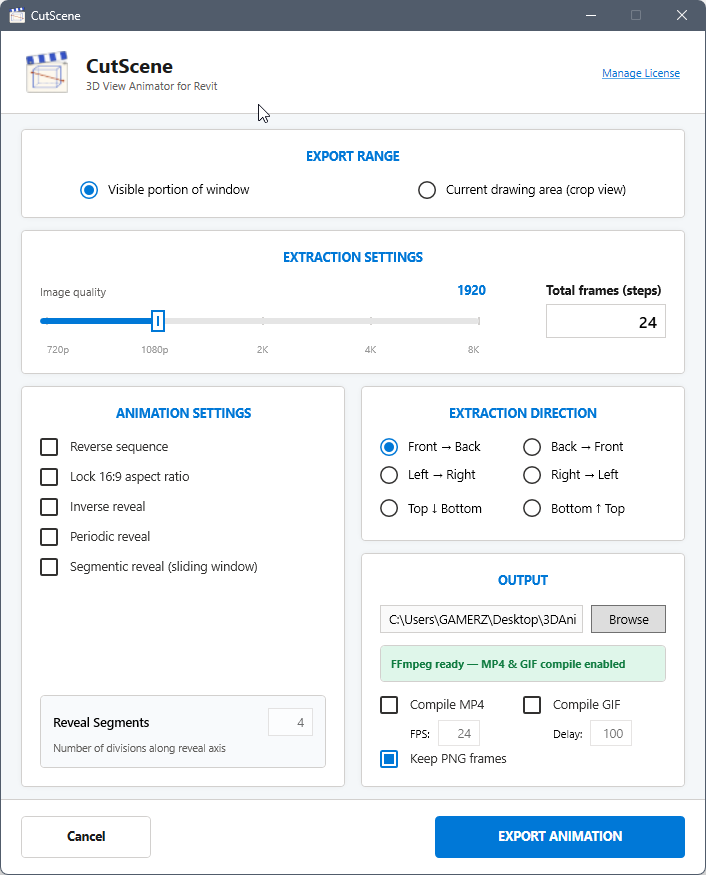
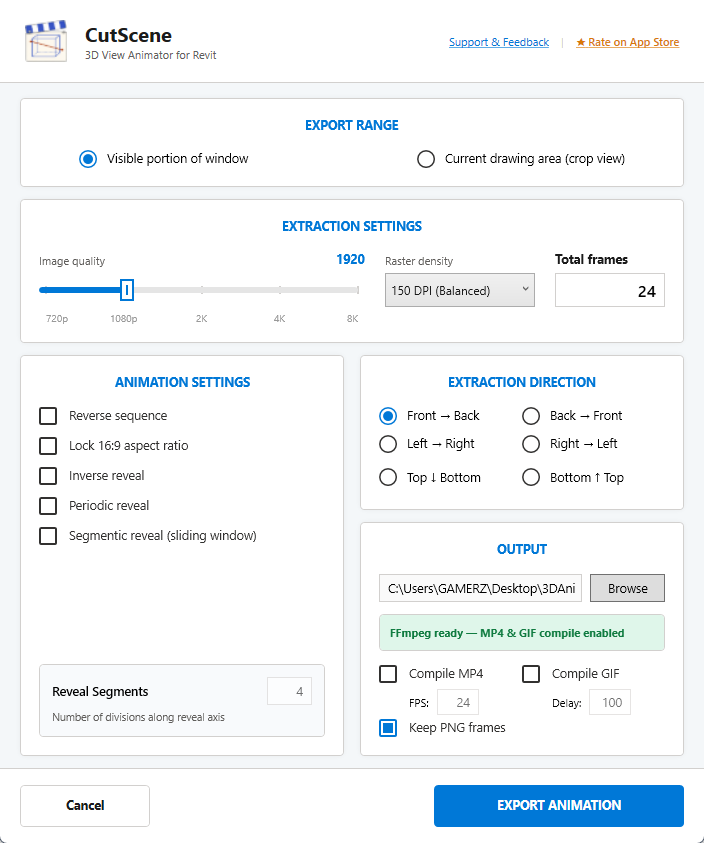
Cutscene Free.
Updated Cutscene to be completely Free.

diff --git a/index.html b/index.html
@@ -419,10 +419,10 @@
   <div class="nav-links">
     <a href="#top">Home</a>
     <a href="#tools">Tools</a>
-    <a href="#pricing">Pricing</a>
+    <a href="#features">Features</a>
     <a href="#faq">FAQ</a>
   </div>
-  <a class="nav-cta" href="#pricing">Purchase Key</a>
+  <a class="nav-cta" href="#download">Download Free</a>
 </nav>
 
 <!-- HERO PORTFOLIO SECTION -->
@@ -540,7 +540,7 @@
       <!-- ANIMATION SAMPLES GALLERY (removed — media integrated into feature cards below) -->
 
       <!-- FEATURES -->
-      <div style="margin-top: 80px;">
+      <div id="features" style="margin-top: 80px;">
         <div class="section-label">Features</div>
         <h2 class="section-title">Everything you need for professional BIM animation</h2>
         <p class="section-sub" style="margin-bottom: 48px;">Click any feature to see it in action.</p>
@@ -616,6 +616,13 @@
             <p>Export frames from HD to 8K (7680 px). Lock the 16:9 aspect ratio for broadcast-quality output, or let Revit determine the frame dimensions.</p>
           </div>
 
+          <!-- Raster Density & DPI Control — NEW FEATURE -->
+          <div class="feat-card fade-up">
+            <div class="feat-icon">&#128444;&#65039;</div>
+            <h3>Raster Density &amp; DPI Control</h3>
+            <p>Full raster density selection from 72 DPI (Draft/Fast) and 150 DPI (Balanced) to 300 DPI (High Res) and 600 DPI (Ultra Print) for razor-sharp, presentation-grade deliverables.</p>
+          </div>
+
           <!-- Non-Destructive — standard card -->
           <div class="feat-card fade-up">
             <div class="feat-icon">&#128737;&#65039;</div>
@@ -679,111 +686,38 @@
     </div>
   </section>
 
-  <!-- PRICING -->
-  <section id="pricing">
+  <!-- DOWNLOAD / ACCESS -->
+  <section id="download">
     <div class="container">
-      <div class="section-label">Pricing</div>
-      <h2 class="section-title">Simple, transparent pricing</h2>
-      <p class="section-sub">Start free, upgrade when you are ready. No subscription - pay once, use forever.</p>
-      <div class="pricing-grid">
-        
-        <!-- 1-DAY -->
-        <div class="price-card fade-up">
-          <span class="price-badge">Free Trial</span>
-          <div class="price-title">1-Day Pass</div>
-          <div class="price-amount">$0</div>
-          <div class="price-desc">Free 1-day access to CutScene. Perfect for trying out the tool before committing.</div>
-          <ul class="price-features">
-            <li><span class="check">&#10003;</span> 10 free trial exports</li>
-            <li><span class="check">&#10003;</span> Perspective &amp; Orthogonal reveal</li>
-            <li><span class="check">&#10003;</span> MP4, GIF, PNG output</li>
-            <li><span class="check">&#10003;</span> Resolutions up to 8K</li>
-            <li><span class="check">&#10003;</span> All 7 Revit versions</li>
-          </ul>
-          <a href="https://apps.autodesk.com" class="price-btn outline">Download Trial</a>
+      <div class="section-label">Download</div>
+      <h2 class="section-title">Completely free for everyone</h2>
+      <p class="section-sub">No license keys, no trial limitations, and no watermarks. Full access across all supported Revit versions.</p>
+      
+      <div style="max-width: 800px; margin: 48px auto 0; background: linear-gradient(145deg, rgba(255,255,255,0.06), rgba(0,120,215,0.06)); border: 1px solid rgba(0,120,215,0.3); border-radius: 20px; padding: 40px; text-align: center; box-shadow: 0 20px 60px rgba(0,0,0,0.35);">
+        <div style="display:inline-block; font-size:0.75rem; font-weight:700; letter-spacing:1px; text-transform:uppercase; color:var(--accent2); background:rgba(0,120,215,0.15); padding:6px 16px; border-radius:100px; margin-bottom:16px;">
+          Free Add-in
         </div>
-
-        <!-- 7-DAY -->
-        <div class="price-card fade-up">
-          <span class="price-badge">Short Pass</span>
-          <div class="price-title">7-Day Pass</div>
-          <div class="price-amount">$5</div>
-          <div class="price-desc">7 days of full access to CutScene. Great for short-term projects or quick deliverables.</div>
-          <ul class="price-features">
-            <li><span class="check">&#10003;</span> Unlimited exports for 7 days</li>
-            <li><span class="check">&#10003;</span> Perspective &amp; Orthogonal reveal</li>
-            <li><span class="check">&#10003;</span> MP4, GIF, PNG output</li>
-            <li><span class="check">&#10003;</span> Resolutions up to 8K</li>
-            <li><span class="check">&#10003;</span> 7 Revit versions supported</li>
-          </ul>
-          <a href="https://scanbim.github.io/Revit-Addin-Tools/#pricing" class="price-btn outline">Get 7-Day Key</a>
+        <h3 style="font-size: 1.8rem; font-weight: 800; margin-bottom: 12px; color: #fff;">CutScene for Autodesk Revit</h3>
+        <p style="color: var(--muted); font-size: 1rem; max-width: 580px; margin: 0 auto 30px;">
+          Enjoy unlimited MP4, GIF, and PNG exports up to 8K resolution with all reveal modes and custom DPI control unlocked right out of the box.
+        </p>
+        <div style="display: flex; gap: 16px; justify-content: center; flex-wrap: wrap; margin-bottom: 32px;">
+          <a href="https://apps.autodesk.com" class="btn-primary" style="padding: 16px 36px; font-size: 1rem;">Download on Autodesk App Store</a>
         </div>
-
-        <!-- 1-MONTH -->
-        <div class="price-card fade-up">
-          <span class="price-badge">Monthly Pass</span>
-          <div class="price-title">1-Month Pass</div>
-          <div class="price-amount">$25</div>
-          <div class="price-desc">30 days of full access. Ideal for project-based workflows where you need CutScene for a single engagement.</div>
-          <ul class="price-features">
-            <li><span class="check">&#10003;</span> Unlimited exports for 30 days</li>
-            <li><span class="check">&#10003;</span> Perspective &amp; Orthogonal reveal</li>
-            <li><span class="check">&#10003;</span> MP4, GIF, PNG output</li>
-            <li><span class="check">&#10003;</span> Resolutions up to 8K</li>
-            <li><span class="check">&#10003;</span> 7 Revit versions supported</li>
-          </ul>
-          <a href="https://scanbim.github.io/Revit-Addin-Tools/#pricing" class="price-btn outline">Get 1-Month Key</a>
+        <div style="display: grid; grid-template-columns: repeat(auto-fit, minmax(200px, 1fr)); gap: 16px; text-align: left; border-top: 1px solid var(--border); padding-top: 24px;">
+          <div style="display:flex; align-items:center; gap:10px; font-size:0.9rem; color:var(--text);">
+            <span style="color:var(--green); font-size:1.1rem;">&#10003;</span> Unlimited exports
+          </div>
+          <div style="display:flex; align-items:center; gap:10px; font-size:0.9rem; color:var(--text);">
+            <span style="color:var(--green); font-size:1.1rem;">&#10003;</span> Up to 8K &amp; 600 DPI
+          </div>
+          <div style="display:flex; align-items:center; gap:10px; font-size:0.9rem; color:var(--text);">
+            <span style="color:var(--green); font-size:1.1rem;">&#10003;</span> All 7 Revit versions
+          </div>
+          <div style="display:flex; align-items:center; gap:10px; font-size:0.9rem; color:var(--text);">
+            <span style="color:var(--green); font-size:1.1rem;">&#10003;</span> Bundled FFmpeg (ready to use)
+          </div>
         </div>
-
-        <!-- 6-MONTH -->
-        <div class="price-card fade-up">
-          <span class="price-badge">Semi-Annual Pass</span>
-          <div class="price-title">6-Month Pass</div>
-          <div class="price-amount">$50</div>
-          <div class="price-desc">6 months of full access. Best for ongoing projects or studios with regular animation needs.</div>
-          <ul class="price-features">
-            <li><span class="check">&#10003;</span> Unlimited exports for 6 months</li>
-            <li><span class="check">&#10003;</span> Perspective &amp; Orthogonal reveal</li>
-            <li><span class="check">&#10003;</span> MP4, GIF, PNG output</li>
-            <li><span class="check">&#10003;</span> Resolutions up to 8K</li>
-            <li><span class="check">&#10003;</span> 7 Revit versions supported</li>
-          </ul>
-          <a href="https://scanbim.github.io/Revit-Addin-Tools/#pricing" class="price-btn outline">Get 6-Month Key</a>
-        </div>
-
-        <!-- 1-YEAR -->
-        <div class="price-card featured fade-up">
-          <span class="price-badge">Annual Pass</span>
-          <div class="price-title">1-Year Pass</div>
-          <div class="price-amount">$75</div>
-          <div class="price-desc">12 months of full access. Our most popular tier for professionals who animate regularly in Revit.</div>
-          <ul class="price-features">
-            <li><span class="check">&#10003;</span> Unlimited exports for 12 months</li>
-            <li><span class="check">&#10003;</span> Perspective &amp; Orthogonal reveal</li>
-            <li><span class="check">&#10003;</span> MP4, GIF, PNG output</li>
-            <li><span class="check">&#10003;</span> Resolutions up to 8K</li>
-            <li><span class="check">&#10003;</span> 7 Revit versions supported</li>
-          </ul>
-          <a href="https://scanbim.github.io/Revit-Addin-Tools/#pricing" class="price-btn filled">Get 1-Year Key</a>
-        </div>
-
-        <!-- PERPETUAL -->
-        <div class="price-card featured fade-up">
-          <span class="price-badge">Perpetual</span>
-          <div class="price-title">Perpetual License</div>
-          <div class="price-amount">$100</div>
-          <div class="price-desc">Lifetime access to CutScene. Pay once, use forever. Best value for power users and studios.</div>
-          <ul class="price-features">
-            <li><span class="check">&#10003;</span> Lifetime unlimited exports</li>
-            <li><span class="check">&#10003;</span> Perspective &amp; Orthogonal reveal</li>
-            <li><span class="check">&#10003;</span> MP4, GIF, PNG output</li>
-            <li><span class="check">&#10003;</span> Resolutions up to 8K</li>
-            <li><span class="check">&#10003;</span> 7 Revit versions supported</li>
-            <li><span class="check">&#10003;</span> Machine transfer supported</li>
-          </ul>
-          <a href="https://scanbim.github.io/Revit-Addin-Tools/#pricing" class="price-btn filled">Get Perpetual Key</a>
-        </div>
-
       </div>
     </div>
   </section>
@@ -803,16 +737,16 @@
           <div class="faq-a">Never. CutScene is 100% non-destructive. After every export it fully restores your 3D view - the Section Box position, Crop Box state, and all visibility settings - to exactly how you left it. Your model file is never modified.</div>
         </div>
         <div class="faq-item">
-          <button class="faq-q" onclick="toggleFaq(this)">Can I transfer my license to a new computer? <span class="arrow">&#9660;</span></button>
-          <div class="faq-a">Yes. The License Activation window includes a Deactivate button that unbinds your license from your current machine, freeing it to be activated on a new one. You can move your license as many times as you need.</div>
+          <button class="faq-q" onclick="toggleFaq(this)">Is CutScene completely free to use? <span class="arrow">&#9660;</span></button>
+          <div class="faq-a">Yes. CutScene is 100% free with unlimited exports, no license keys required, and no hidden subscriptions.</div>
         </div>
         <div class="faq-item">
           <button class="faq-q" onclick="toggleFaq(this)">Which Revit versions are supported? <span class="arrow">&#9660;</span></button>
-          <div class="faq-a">CutScene supports Revit 2021, 2022, 2023, 2024, 2025, 2026, and 2027 - all included in a single bundle installer. A single license key works across all versions.</div>
+          <div class="faq-a">CutScene supports Revit 2021, 2022, 2023, 2024, 2025, 2026, and 2027 - all included in a single unified installer.</div>
         </div>
         <div class="faq-item">
           <button class="faq-q" onclick="toggleFaq(this)">How long does an export take? <span class="arrow">&#9660;</span></button>
-          <div class="faq-a">It depends on frame count and resolution. A typical 30-frame export at Full HD (1920px) completes in 1-3 minutes. The FFmpeg MP4/GIF compilation runs in the background so Revit stays responsive during the wait.</div>
+          <div class="faq-a">It depends on frame count and resolution. A typical 30-frame export at Full HD (1920px) completes in 1-3 minutes. The FFmpeg MP4/GIF compilation runs asynchronously in the background so Revit stays responsive.</div>
         </div>
         <div class="faq-item">
           <button class="faq-q" onclick="toggleFaq(this)">Does it work with perspective (camera) 3D views? <span class="arrow">&#9660;</span></button>
@@ -826,9 +760,8 @@
   <section id="cta">
     <div class="cta-box fade-up">
       <h2>Ready to create your first<br/>cinematic animation?</h2>
-      <p>Download from the Autodesk App Store and get 10 free exports instantly - no credit card required.</p>
-      <a href="https://apps.autodesk.com" class="btn-primary">Download Free from Autodesk</a>
-      <p class="cta-note">Need a license key? <a href="https://scanbim.github.io/Revit-Addin-Tools/#pricing" style="color:var(--accent2);text-decoration:none">Purchase one here</a></p>
+      <p>Download CutScene from the Autodesk App Store and start exporting cinematic section box animations today.</p>
+      <a href="https://apps.autodesk.com" class="btn-primary">Download Free on Autodesk App Store</a>
     </div>
   </section>
 </main>
@@ -840,11 +773,11 @@
     <span class="footer-logo-text" style="font-size:1rem">Scan<span>BIM</span></span>
   </div>
   <div class="footer-links">
-    <a href="#product">Home</a>
+    <a href="#top">Home</a>
     <a href="#tools">CutScene</a>
-    <a href="#pricing">Pricing</a>
+    <a href="#features">Features</a>
     <a href="#faq">FAQ</a>
-    <a href="https://scanbim.github.io/Revit-Addin-Tools/#pricing">Support</a>
+    <a href="#download">Download</a>
     <a href="#privacy">Privacy Policy</a>
   </div>
   <span class="footer-copy">&copy; 2025 ScanBIM. All rights reserved.</span>
@@ -853,15 +786,11 @@
 <!-- PRIVACY POLICY SECTION -->
 <div id="privacy">
   <strong style="color:var(--text)">Privacy Policy</strong><br/><br/>
-  CutScene by ScanBIM stores an anonymous, hardware-derived Device ID and export count in a secure Firebase database solely to manage your trial usage and license activation. No personally identifiable information (name, email, or IP address) is collected, stored, or sold to any third party. The Device ID is a non-reversible hash and cannot be used to identify you as an individual.
+  CutScene by ScanBIM is committed to respecting your privacy. The tool operates locally on your machine within Autodesk Revit and does not collect, transmit, store, or sell any personal data, project files, or telemetry to external servers.
   <br/><br/>
-  <strong style="color:var(--text)">Third-Party Data Handling:</strong> Your Device ID and export count are stored using Google Firebase. Firebase provides the same level of data protection and confidentiality described in this policy, and does not use this data for its own purposes.
+  <strong style="color:var(--text)">Local Processing:</strong> All image rendering, frame extraction, and video/GIF compilations (via FFmpeg) are executed strictly on your local computer. No models or rendered frames are ever uploaded or sent over the internet.
   <br/><br/>
-  <strong style="color:var(--text)">Data Retention:</strong> Your Device ID and export count are retained only for as long as necessary to manage trial usage and license activation. Data associated with expired trials or inactive licenses may be periodically removed from our systems.
-  <br/><br/>
-  <strong style="color:var(--text)">Your Rights:</strong> You may request deletion of your Device ID and associated data at any time by contacting us at abdullah.ahmed.120@hotmail.com. We will process deletion requests within a reasonable timeframe, unless retention is required for legitimate purposes such as license fraud prevention.
-  <br/><br/>
-  <strong style="color:var(--text)">Contact:</strong> Questions about this policy can be directed to abdullah.ahmed.120@hotmail.com.
+  <strong style="color:var(--text)">Contact:</strong> For questions or feedback regarding CutScene, contact us at abdullah.ahmed.120@hotmail.com.
 </div>
 
 <!-- LIGHTBOX MODAL -->
